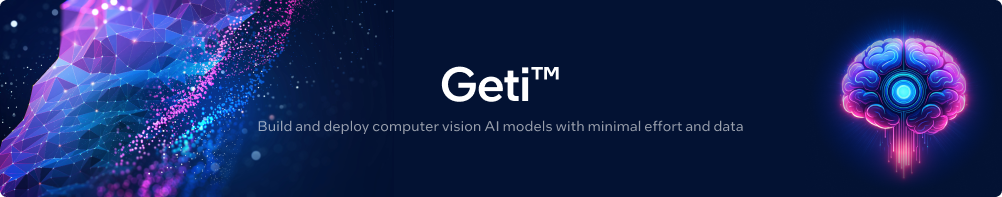
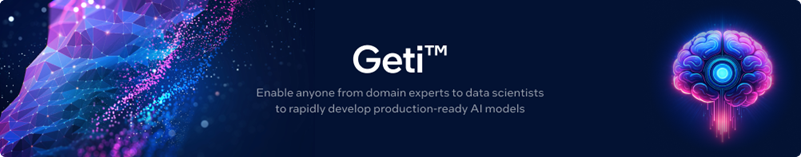
update

Changed region(s): [[0.2497, 0.5605, 0.7491, 0.7389], [0.437, 0.2803, 0.5618, 0.535], [0.9988, 0.9682, 1.0, 0.9936]]

diff --git a/library/README.md b/library/README.md
@@ -1,6 +1,6 @@
 <div align="center">
 
-# Geti Library - getitune
+<img src="../assets/geti-tune-header.png" alt="Geti Library">
 
 **A low-code transfer learning framework for training, evaluating, optimizing, and deploying computer vision models**
 
@@ -34,7 +34,7 @@
 
 </div>
 
-## Introduction
+# Geti Library - getitune
 
 The Geti™ library (`getitune`) is a low-code transfer learning framework for Computer Vision.
 Its API and CLI let you train, evaluate, optimize, and deploy models quickly, even without deep expertise in deep learning.